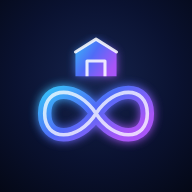
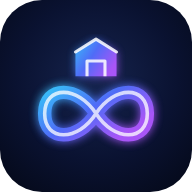
feat(pwa): arredondar os icones que a plataforma desenha direto
Arredondar exige cuidado, porque canto arredondado significa canto
transparente -- e transparencia foi a causa da moldura branca corrigida no
commit anterior. Entao so arredonda quem a plataforma renderiza como esta:

  - manifest purpose "any" (192/512) e src/app/icon.png -> arredondados
    com raio de 22% do lado (aproxima o squircle de iOS/macOS e fica
    natural no Windows). Sao desenhados direto na taskbar e no dialogo de
    instalacao; ali o canto transparente mostra a superficie real, que e o
    resultado desejado.
  - manifest purpose "maskable" -> seguem quadrados. O SO aplica o proprio
    recorte; um PNG ja arredondado sairia arredondado duas vezes.
  - apple-touch-icon -> segue quadrado. O iOS aplica o proprio recorte e
    preenche transparencia com preto, conforme a HIG da Apple.

Como `metadata.icons.apple` no layout apontava para o mesmo arquivo que o
favicon (infinoos-mark-192.png), que agora e arredondado, o iOS receberia
um icone com cantos transparentes. Criado infinoos-mark-apple-180.png
(quadrado, 180px, o tamanho canonico do apple-touch-icon) e o layout passa
a apontar para ele.

Verificado por inspecao de pixels nos 7 arquivos: os arredondados tem
alpha=0 no canto e alpha=255 na borda e no centro; os quadrados tem
alpha=255 nos tres pontos. Todos conferem com a forma esperada.

diff --git a/src/app/layout.tsx b/src/app/layout.tsx
@@ -36,7 +36,10 @@ export const metadata: Metadata = {
     title: "WMS",
   },
   icons: {
-    apple: [{ url: "/branding/infinoos-mark-192.png", sizes: "192x192", type: "image/png" }],
+    // O apple-touch-icon precisa ser quadrado e opaco: o iOS aplica o próprio
+    // recorte e preenche transparência com preto. Por isso ele aponta para um
+    // arquivo dedicado, e não para os ícones arredondados usados no resto.
+    apple: [{ url: "/branding/infinoos-mark-apple-180.png", sizes: "180x180", type: "image/png" }],
     icon: [
       { url: "/branding/infinoos-mark-192.png", sizes: "192x192", type: "image/png" },
       { url: "/branding/infinoos-mark-512.png", sizes: "512x512", type: "image/png" },
